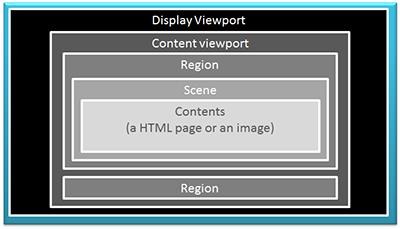
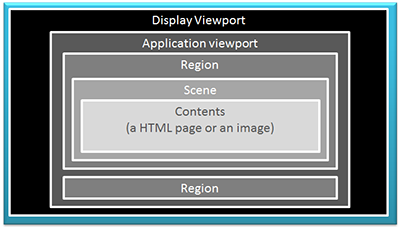
Delete a phrase about PDF, etc.
As a result of the discussion:
http://lists.w3.org/Archives/Public/public-websignage/2013May/0009.html
* Delete the phrase mentioned abut PDF from "Single image"
* Replace the term "content viewport" with "application viewport"

Changed region(s): [[0.33, 0.1528, 0.66, 0.214]]

diff --git a/index.html b/index.html
@@ -35,7 +35,7 @@ dl {
 	<p><a href="http://www.w3.org/"><img alt="W3C" height="48" src="http://www.w3.org/Icons/w3c_home" width="72"></a></p>
 	<h1>Profiles for Web-based Signage Player - Core Profile</h1>
 	<p id="sub-title">Editor's Draft
-		<time datetime="2013-05-20">20 May 2013</time>
+		<time datetime="2013-05-23">23 May 2013</time>
 	</p>
 	<dl>
 		<dt>This Version:</dt>
@@ -143,8 +143,8 @@ dl {
 </section>
 <section>
 	<h2 id="concept_of_viewport">4. Concept of viewport</h2>
-	<p>The <dfn id="display_viewport">display viewport</dfn> is the area in which the display can show something. The <dfn id="content_viewport">content viewport</dfn> is the area in which an application shows web-based signage contents. The display viewport and the content viewport are not necessarily identical.</p>
-	<p>In the content viewport, the <dfn id="region">region</dfn>s are positioned. The web-based signage has at least one region in the content viewport. It may have also multiple regions. If it has multiple regions, each region is basically used to play independent contents of each other.</p>
+	<p>The <dfn id="display_viewport">display viewport</dfn> is the area in which the display can show something. The <dfn id="application_viewport">application viewport</dfn> is the area in which an application shows web-based signage contents. The display viewport and the application viewport are not necessarily identical.</p>
+	<p>In the application viewport, the <dfn id="region">region</dfn>s are positioned. The web-based signage has at least one region in the application viewport. It may have also multiple regions. If it has multiple regions, each region is basically used to play independent contents of each other.</p>
 	<p>In a region, one scene is shown. A region does not show multiple scenes simultaneously. A region show some scenes sequentially based on the playlist.</p>
 	<p>A scene shows contents. In this profile, the contents consist of an image file or a HTML page (a HTML file, CSS files, JavaScript files, image files, SVG files, etc.)</p>
 	<figure> <img src="imgs/concept_of_viewport.png" width="400" height="229" alt="">
@@ -153,92 +153,92 @@ dl {
 </section>
 <section>
 	<h2 id="viewport_properties">5 Viewport properties</h2>
-	<p>The content viewport is the rectangle area in which web-based signage contents are shown. On the other hand, the display viewport is the rectangle area of the display. Therefore, the content viewport and the display viewport are not necessarily identical. The width and height may be different. The aspect ratio also may be different.</p>
+	<p>The application viewport is the rectangle area in which web-based signage contents are shown. On the other hand, the display viewport is the rectangle area of the display. Therefore, the application viewport and the display viewport are not necessarily identical. The width and height may be different. The aspect ratio also may be different.</p>
 	<p>The control data includes the information of the display viewport as follows:</p>
 	<dl>
 		<dt>Background color</dt>
 		<dd>
-			<p>This color will be seen when the aspect ratios or the dimensions of the content viewport and the display viewport are not identical. (typically, it will be black)</p>
+			<p>This color will be seen when the aspect ratios or the dimensions of the application viewport and the display viewport are not identical. (typically, it will be black)</p>
 			<p>This color is specified in a CSS color. <a href="#refsCSSCOLOR">[CSSCOLOR]</a></p>
 		</dd>
 	</dl>
-	<p>The control data includes the information of the content viewport as follows:</p>
+	<p>The control data includes the information of the application viewport as follows:</p>
 	<dl>
 		<dt>Background color</dt>
 		<dd>
-			<p>This color will be seen when the regions does not cover the whole content viewport. (typically, it will be black)</p>
+			<p>This color will be seen when the regions does not cover the whole application viewport. (typically, it will be black)</p>
 			<p>This color is specified in a CSS color. <a href="#refsCSSCOLOR">[CSSCOLOR]</a></p>
 		</dd>
 		<dt>Width</dt>
 		<dd>
-			<p>This is the intrinsic width of the content viewport in pixel.</p>
+			<p>This is the intrinsic width of the application viewport in pixel.</p>
 		</dd>
 		<dt>Height</dt>
 		<dd>
-			<p>This is the intrinsic height of the content viewport in pixel.</p>
+			<p>This is the intrinsic height of the application viewport in pixel.</p>
 		</dd>
 		<dt>Fit</dt>
 		<dd>
-			<p>This is a mode which indicates how the content viewport should be fit to the display viewport. There are 3 modes as follows:</p>
+			<p>This is a mode which indicates how the application viewport should be fit to the display viewport. There are 3 modes as follows:</p>
 			<dl>
 				<dt>None</dt>
 				<dd>
-					<p>Applications must not scale the content viewport. The content viewport will be shown as it is on the display viewport. If the size of the content viewport is smaller than the size of the display viewport, the margins will appear. The margin will be colored in the background color specified for  the display viewport (typically, it will be black).</p>
+					<p>Applications must not scale the application viewport. The application viewport will be shown as it is on the display viewport. If the size of the application viewport is smaller than the size of the display viewport, the margins will appear. The margin will be colored in the background color specified for  the display viewport (typically, it will be black).</p>
 				<dt>Meet</dt>
 				<dd>
-					<p>Applications must scale the content viewport preserving the aspect ratio of the content viewport so that either the width or the height of the content viewport is equal to that of the display viewport, and the whole content viewport is visible. If the aspect ratio of the content viewport does not match the aspect ratio of the display viewport, the content viewport will be letterboxed or pillarboxed (i.e. margins will appear on both of the top and bottom sides or both of the left and right sides). The margin will be colored in the background color  specified for the display viewport (typically, it will be black).</p>
+					<p>Applications must scale the application viewport preserving the aspect ratio of the application viewport so that either the width or the height of the application viewport is equal to that of the display viewport, and the whole application viewport is visible. If the aspect ratio of the application viewport does not match the aspect ratio of the display viewport, the application viewport will be letterboxed or pillarboxed (i.e. margins will appear on both of the top and bottom sides or both of the left and right sides). The margin will be colored in the background color  specified for the display viewport (typically, it will be black).</p>
 				<dt>Fill</dt>
 				<dd>
-					<p>Applications must scale the content viewport preserving the aspect ratio of the content viewport so that either the width or the height of the content viewport is equal to that of the display viewport, and the whole display viewport is covered by the content viewport. If the aspect ratio of the content viewport does not match the aspect ratio of the display viewport, a part of the content viewport is invisible.</p>
+					<p>Applications must scale the application viewport preserving the aspect ratio of the application viewport so that either the width or the height of the application viewport is equal to that of the display viewport, and the whole display viewport is covered by the application viewport. If the aspect ratio of the application viewport does not match the aspect ratio of the display viewport, a part of the application viewport is invisible.</p>
 				</dd>
 			</dl>
 		</dd>
 		<dt>Horizontal align</dt>
 		<dd>
-			<p>This property defines how the content viewport should be aligned horizontally in the display viewport. There are 3 types for the horizontal align as follows:</p>
+			<p>This property defines how the application viewport should be aligned horizontally in the display viewport. There are 3 types for the horizontal align as follows:</p>
 			<dl>
 				<dt>Left</dt>
 				<dd>
-					<p>The content viewport is left-justified in the display viewport so that the left side of the content viewport fit the left side of the display viewport.</p>
+					<p>The application viewport is left-justified in the display viewport so that the left side of the application viewport fit the left side of the display viewport.</p>
 				</dd>
 				<dt>Center</dt>
 				<dd>
-					<p>The content viewport is center-justified in the display so that the horizontal center of the content viewport fit the horizontal center of the display viewport.</p>
+					<p>The application viewport is center-justified in the display so that the horizontal center of the application viewport fit the horizontal center of the display viewport.</p>
 				</dd>
 				<dt>Right</dt>
 				<dd>
-					<p>The content viewport is right-justified so that the right side of the content viewport fit the right side of the display viewport.</p>
+					<p>The application viewport is right-justified so that the right side of the application viewport fit the right side of the display viewport.</p>
 				</dd>
 			</dl>
 		</dd>
 		<dt>Vertical align</dt>
 		<dd>
-			<p>This property defines how the content viewport should be aligned vertically in the display viewport. There are 3 types for the vertical align as follows:</p>
+			<p>This property defines how the application viewport should be aligned vertically in the display viewport. There are 3 types for the vertical align as follows:</p>
 			<dl>
 				<dt>Top</dt>
 				<dd>
-					<p>The content viewport is top-justified so that the top side of the content viewport fit the top side of the display viewport.</p>
+					<p>The application viewport is top-justified so that the top side of the application viewport fit the top side of the display viewport.</p>
 				</dd>
 				<dt>Middle</dt>
 				<dd>
-					<p>The content viewport is middle-justified so that the vertical center of the content viewport fit the vertical center of the display viewport.</p>
+					<p>The application viewport is middle-justified so that the vertical center of the application viewport fit the vertical center of the display viewport.</p>
 				</dd>
 				<dt>Bottom</dt>
 				<dd>
-					<p>The content viewport is bottom-justified so that the bottom side of the content viewport fit the bottom side of the display viewport.</p>
+					<p>The application viewport is bottom-justified so that the bottom side of the application viewport fit the bottom side of the display viewport.</p>
 				</dd>
 			</dl>
 		</dd>
 	</dl>
-	<p>The following figures show the combinations of the fit, horizontal align and vertical align properties. In the figures, the content viewport is vertically long, while display viewport is horizontally long.</p>
+	<p>The following figures show the combinations of the fit, horizontal align and vertical align properties. In the figures, the application viewport is vertically long, while display viewport is horizontally long.</p>
 	<figure> <img src="imgs/content_viewport.png" width="785" height="360" alt="">
-		<figcaption>Figure: Properties for content viewport</figcaption>
+		<figcaption>Figure: Properties for application viewport</figcaption>
 	</figure>
 	<p>Applications can use <code>scale()</code> or <code>scale3d()</code> specified CSS Transforms to implement the fit property. [CSSTRANSFORMS]</p>
 </section>
 <section>
 	<h2 id="regions">6 Regions</h2>
-	<p>Web-based Signage player must support multi-region. All web-based signage have at least one region. Multi-region means that the content viewport area is separated into more than 2 regions. Besides, the scene shown in each region is played independently of each other. Each region has a playlist data independently.</p>
+	<p>Web-based Signage player must support multi-region. All web-based signage have at least one region. Multi-region means that the application viewport area is separated into more than 2 regions. Besides, the scene shown in each region is played independently of each other. Each region has a playlist data independently.</p>
 	<p>The following examples  show 2-region layouts:</p>
 	<figure> <img src="imgs/multi_region_examples.png" width="600" height="155" alt="">
 		<figcaption>Figure: Examples of multi-regions</figcaption>
@@ -248,11 +248,11 @@ dl {
 	<dl>
 		<dt>Top</dt>
 		<dd>
-			<p>The value of this property is the distance from the top edge of the content viewport to the top edge of the region.</p>
+			<p>The value of this property is the distance from the top edge of the application viewport to the top edge of the region.</p>
 		</dd>
 		<dt>Left</dt>
 		<dd>
-			<p>The value of this property is the distance from the left edge of the content viewport to the left edge of the region.</p>
+			<p>The value of this property is the distance from the left edge of the application viewport to the left edge of the region.</p>
 		</dd>
 		<dt>Width</dt>
 		<dd>
@@ -275,7 +275,7 @@ dl {
 	<figure> <img src="imgs/multi_region_properties.png" width="312" height="246" alt="">
 		<figcaption>Figure: The relationships between the properties</figcaption>
 	</figure>
-	<p>The values of the top, left, width, and height are specified in pixel or percent. When values are specified in percent, it is based on the width or height of the content viewport. For example, when the width of the content viewport is 1280px and the value of the width property is 20%, then the width of the region is 256px. When the height of content viewport is 720px and the value of the height property is 20%, then the height of the region is 144px. Similarly, when the value of the left property is 20%, the distance from the left edge of the content viewport to the left edge of the region is 256px.</p>
+	<p>The values of the top, left, width, and height are specified in pixel or percent. When values are specified in percent, it is based on the width or height of the application viewport. For example, when the width of the application viewport is 1280px and the value of the width property is 20%, then the width of the region is 256px. When the height of application viewport is 720px and the value of the height property is 20%, then the height of the region is 144px. Similarly, when the value of the left property is 20%, the distance from the left edge of the application viewport to the left edge of the region is 256px.</p>
 </section>
 <section>
 	<h2 id="scene_content_types">7 Scene content types</h2>
@@ -285,7 +285,7 @@ dl {
 		<dd>
 			<p>Players must render an image file as a scene. Players must support PNG, GIF (including animation gif), and JPEG as an image format at least. An image file is rendered using the <code>img</code> element or the <code>object</code> element specified in HTML5. <a href="#refsPNG">[PNG]</a> <a href="#refsGIF">[GIF]</a> <a href="#refsJPEG">[JPEG]</a> <a href="#refsHTML5">[HTML5]</a></p>
 			<p>Players must support   DataURLs for  images. <a href="#refsRFC2397">[RFC2397]</a></p>
-			<p>Players may support more sophisticated formats, such as PDF. <a href="#refsPDF">[PDF]</a></p>
+			<!-- <p>Players may support more sophisticated formats, such as PDF. <a href="#refsPDF">[PDF]</a></p> -->
 		</dd>
 		<dt>HTML-based page</dt>
 		<dd>
@@ -728,8 +728,10 @@ iframe.contentWindow.dispatchEvent(event);</code></pre>
 		<dd><cite><a href="http://www.w3.org/Graphics/JPEG/jfif3.pdf">JPEG File Interchange Format</a></cite>, E. Hamilton.</dd>
 		<dt id="refsJSON">[JSON]</dt>
 		<dd>(Non-normative) <cite><a href="http://tools.ietf.org/html/rfc4627">The application/json Media Type for JavaScript Object Notation (JSON)</a></cite>, D. Crockford. IETF.</dd>
+		<!--
 		<dt id="refsPDF">[PDF]</dt>
 		<dd>(Non-normative) <cite><a href="http://www.adobe.com/content/dam/Adobe/en/devnet/acrobat/pdfs/PDF32000_2008.pdf">Document management — Portable document format — Part 1: PDF</a></cite>. ISO.</dd>
+		-->
 		<dt id="refsPNG">[PNG]</dt>
 		<dd><cite><a href="http://www.w3.org/TR/PNG/">Portable Network Graphics (PNG) Specification</a></cite>, D. Duce. W3C.</dd>
 		<dt id="refsRFC2119">[RFC2119]</dt>
